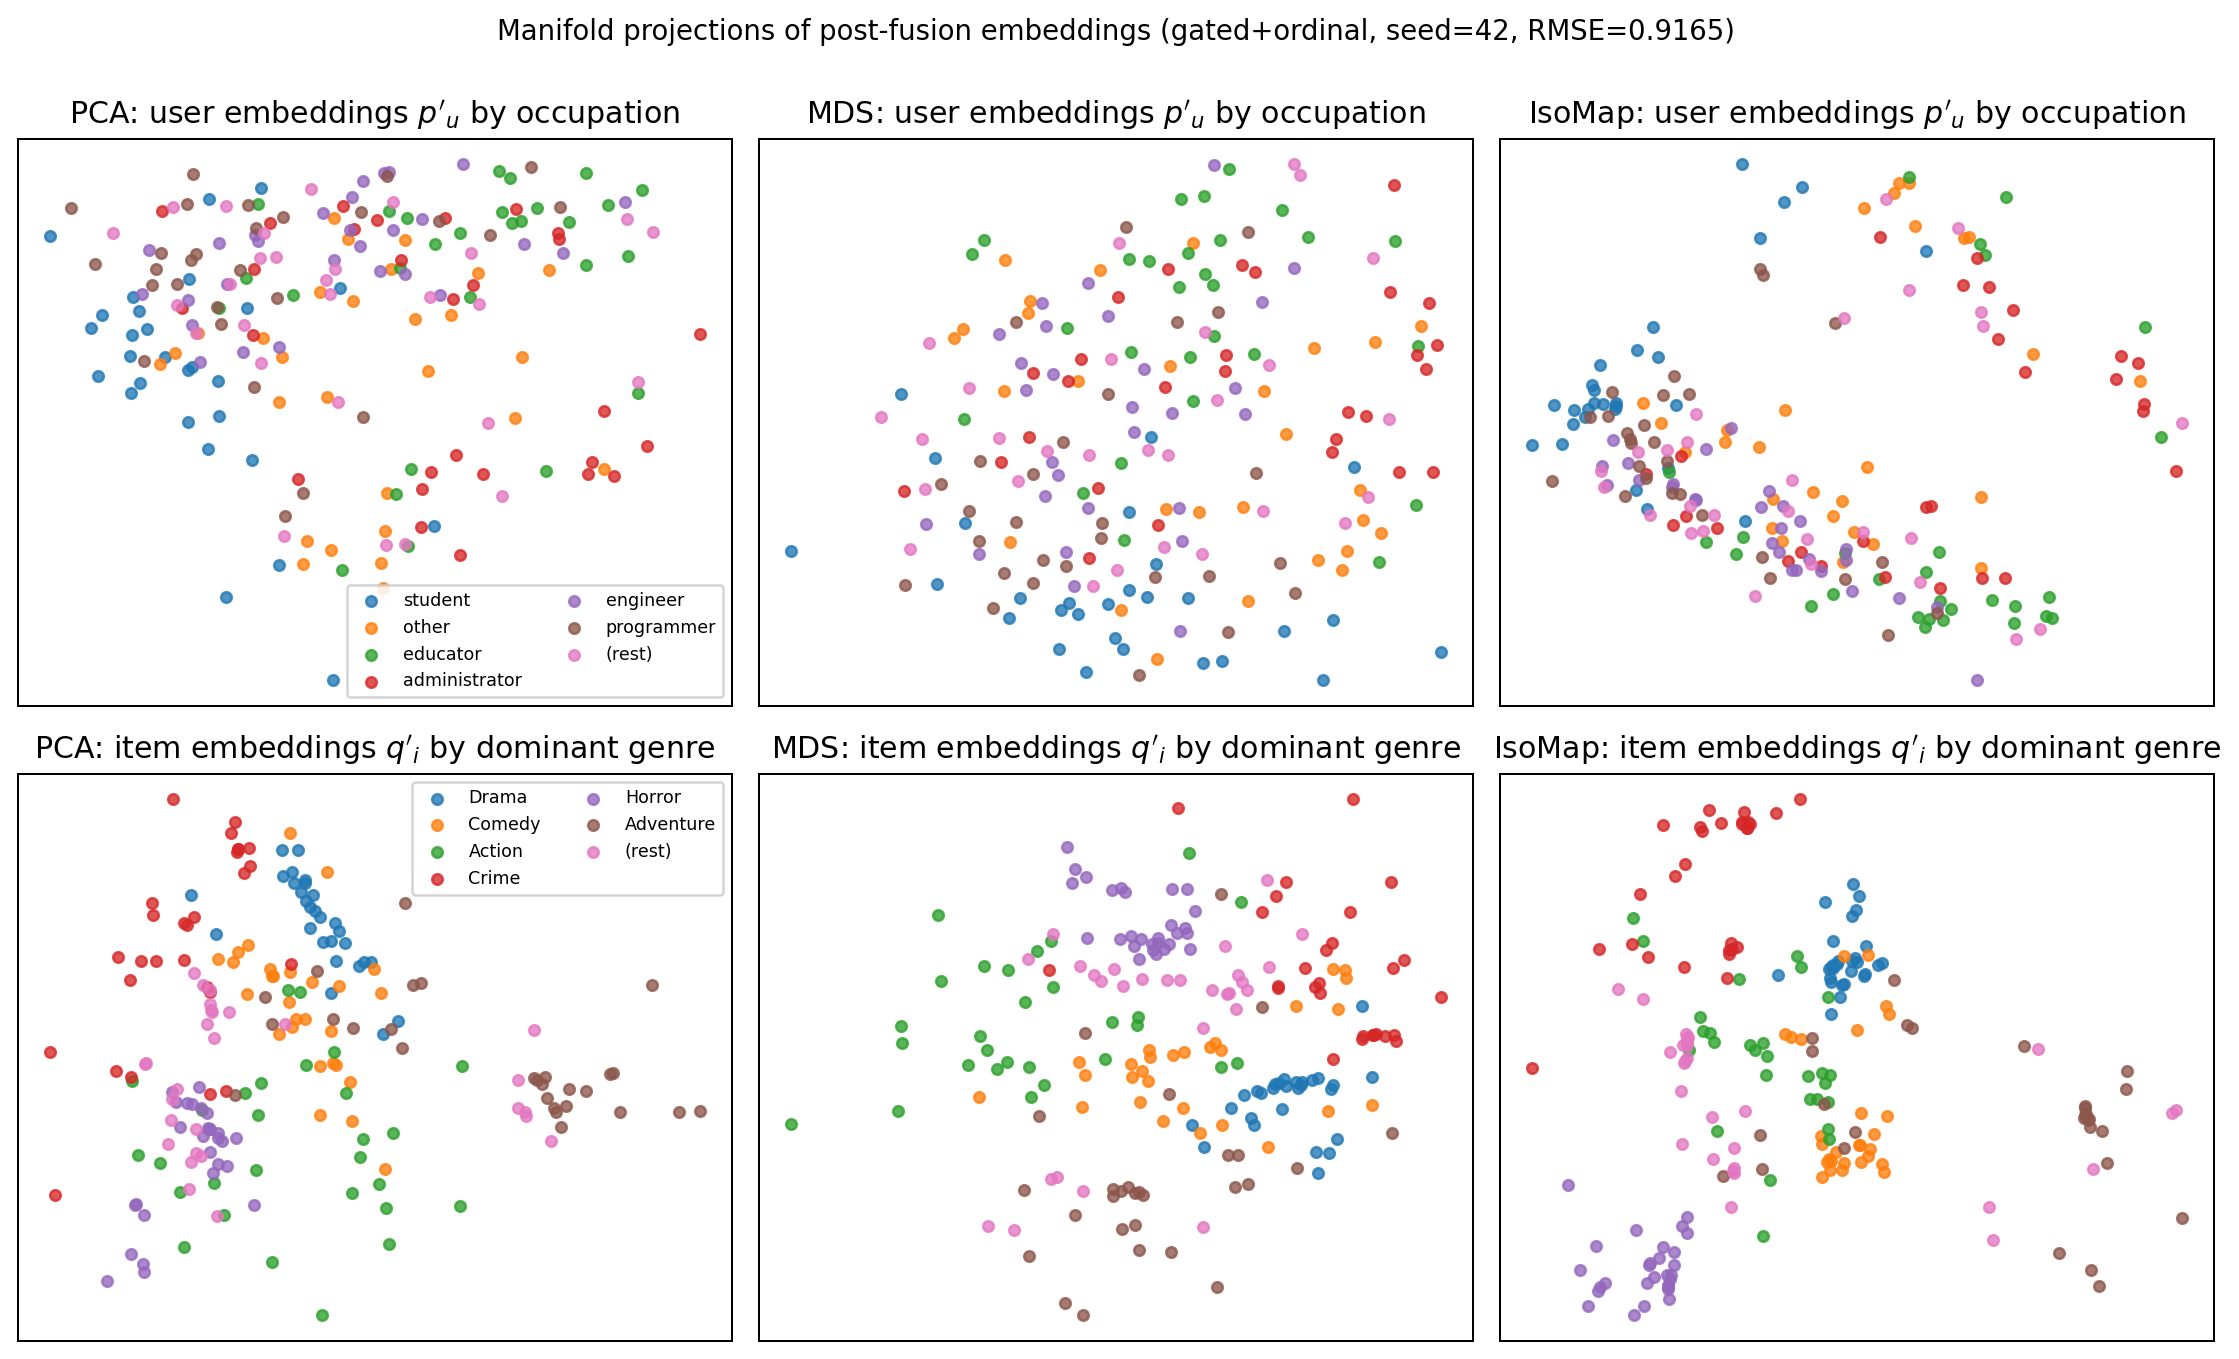
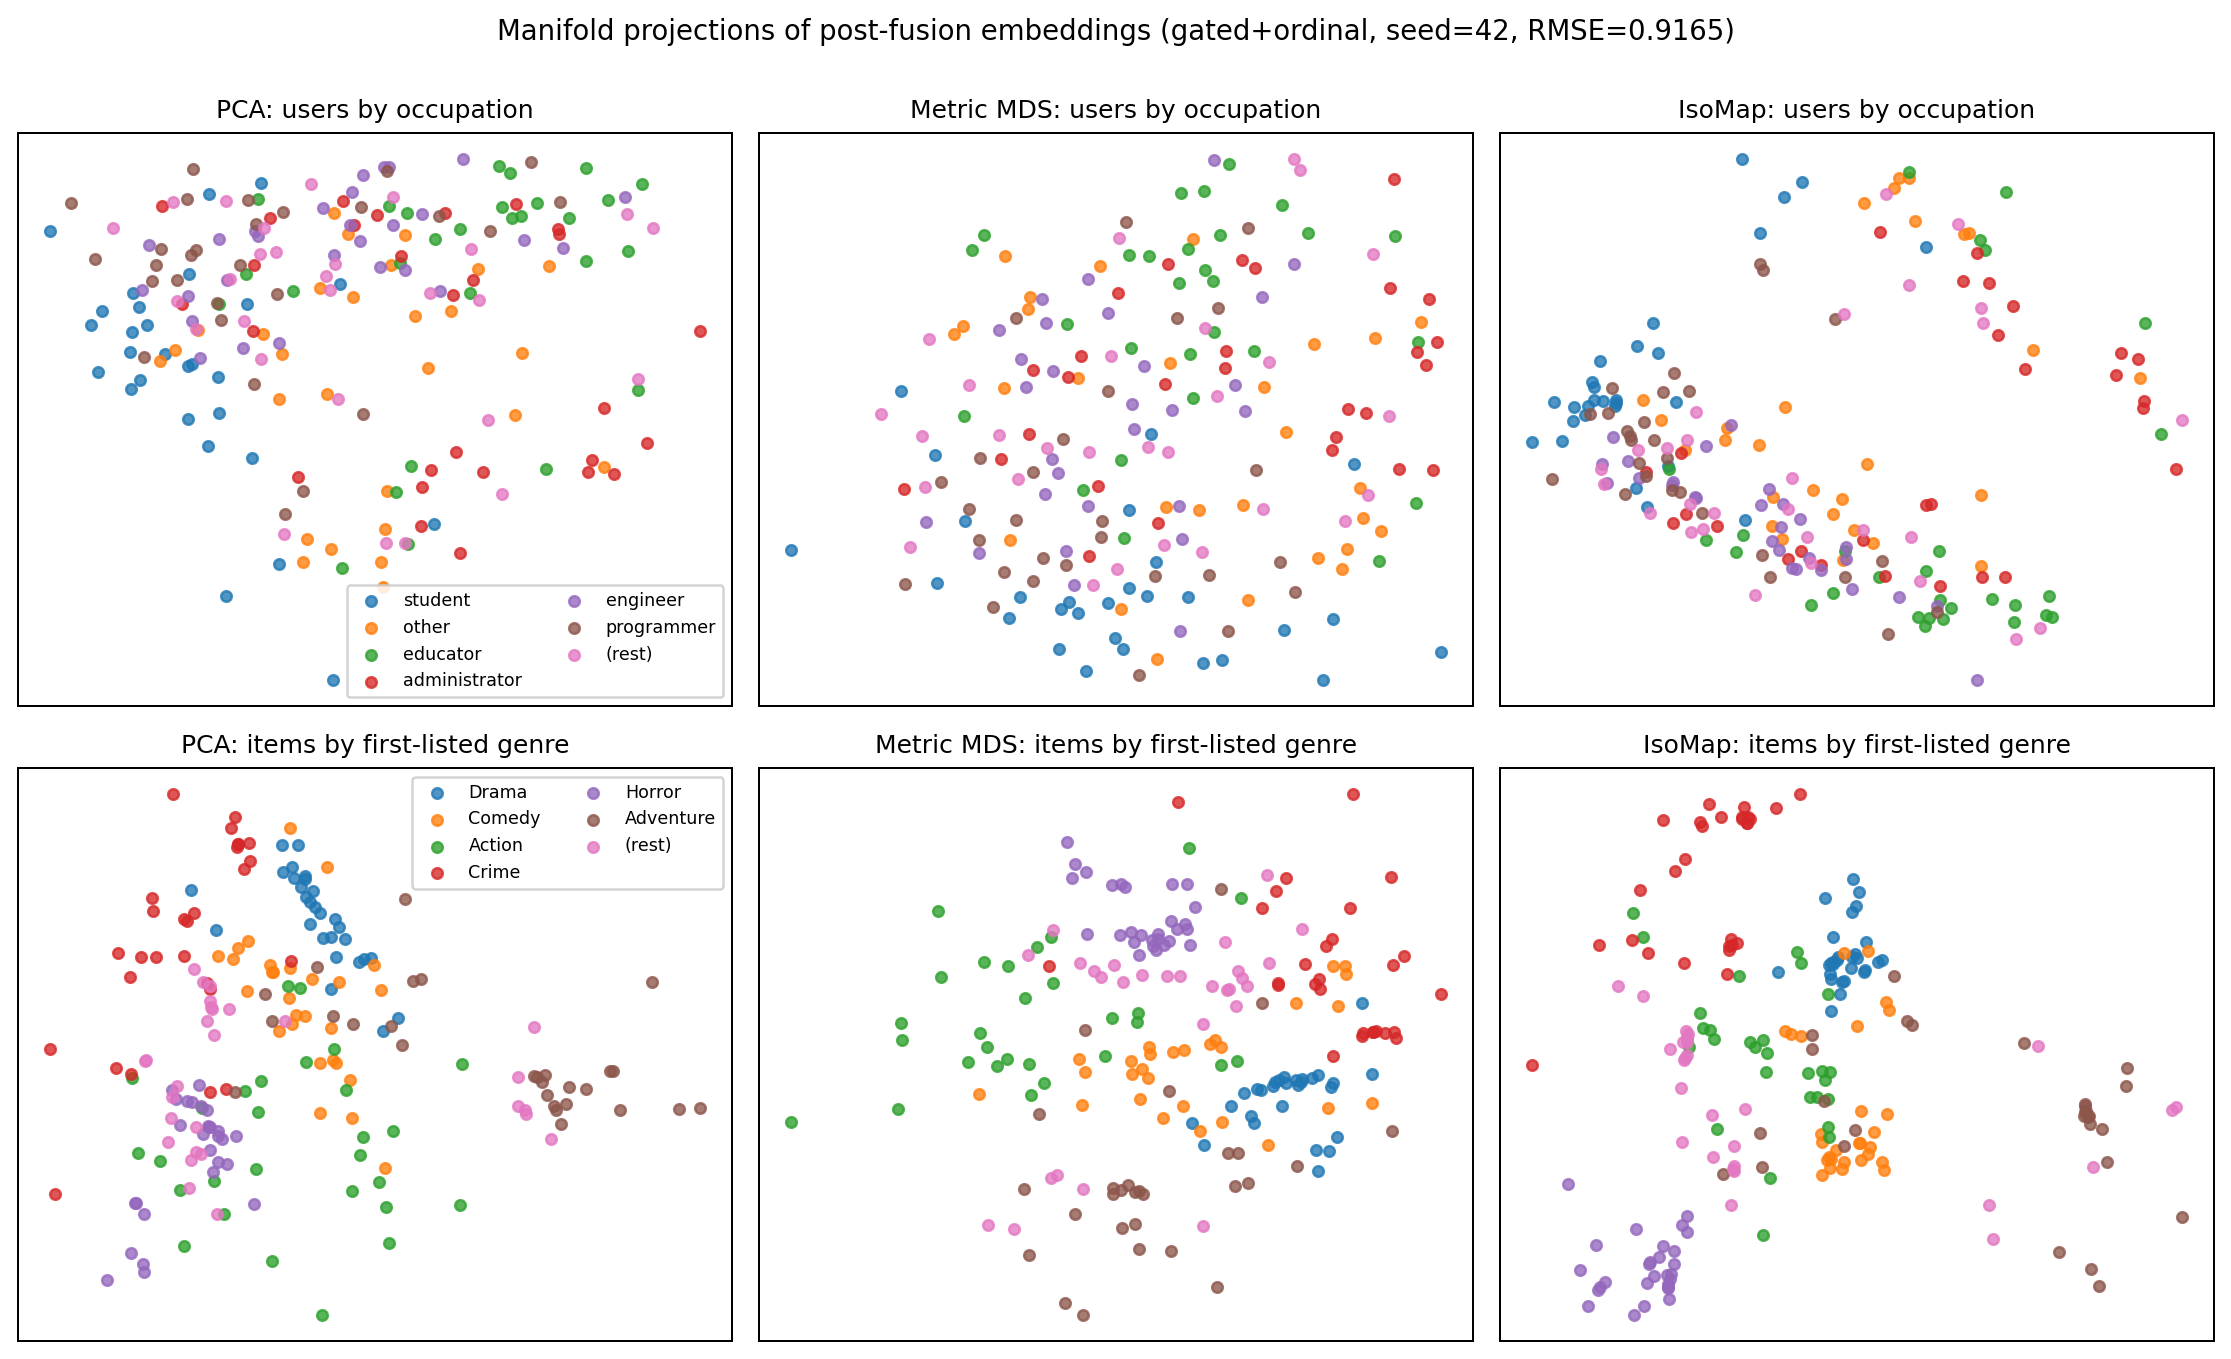
docs: fix figure wording and labels

diff --git a/scripts/run_visualization.py b/scripts/run_visualization.py
@@ -3,12 +3,12 @@
 Trains a single gated+ordinal model on u1.base, extracts post-fusion
 representations p'_u and q'_i (i.e. after passing through the gated fusion
 module, not the raw embeddings), projects them to 2D via three manifold methods,
-and reports silhouette scores stratified by occupation (users) and dominant
+and reports silhouette scores stratified by occupation (users) and first-listed
 genre (items).
 
 Outputs:
     results/<date>_viz/
-        manifold_grid.png       2x3 panel: rows = {users, items}, cols = {PCA, MDS, IsoMap}
+        manifold_grid.png       2x3 panel: rows = {users, items}, cols = {PCA, metric MDS, IsoMap}
         silhouette_scores.csv   per (entity, method) silhouette
         config_snapshot.yaml    config used
         results.json            metadata (seed, n_train_epochs, val_rmse, etc.)
@@ -61,17 +61,17 @@ def _load_user_occupations(data_dir: Path, n_users: int) -> tuple[np.ndarray, li
 
 
 def _load_item_genres(data_dir: Path, n_items: int) -> tuple[np.ndarray, list[str]]:
-    """Return per-item dominant genre as integer label."""
+    """Return per-item first-listed genre as integer label."""
     cols = ["item_id", "title", "release", "video_release", "imdb"] + GENRES
     df = pd.read_csv(data_dir / "u.item", sep="|", names=cols, encoding="latin-1")
     df = df.sort_values("item_id").reset_index(drop=True)
     genre_mat = df[GENRES].to_numpy(dtype=np.int64)
-    # Dominant genre = leftmost-set 1 in row; if all-zero, pick the first ("unknown").
-    dominant = np.argmax(genre_mat[:, 1:], axis=1) + 1  # skip "unknown" if anything else set
+    # First-listed genre = leftmost-set 1 in row; if all-zero, pick the first ("unknown").
+    first_listed = np.argmax(genre_mat[:, 1:], axis=1) + 1  # skip "unknown" if anything else set
     no_real_genre = genre_mat[:, 1:].sum(axis=1) == 0
-    dominant[no_real_genre] = 0  # "unknown"
+    first_listed[no_real_genre] = 0  # "unknown"
     labels = np.full(n_items, -1, dtype=np.int64)
-    labels[df["item_id"].to_numpy() - 1] = dominant
+    labels[df["item_id"].to_numpy() - 1] = first_listed
     return labels, GENRES
 
 
@@ -234,7 +234,7 @@ def main():
     cmap_u = plt.get_cmap("tab10")
     cmap_i = plt.get_cmap("tab10")
 
-    method_titles = {"pca": "PCA", "mds": "MDS", "isomap": "IsoMap"}
+    method_titles = {"pca": "PCA", "mds": "Metric MDS", "isomap": "IsoMap"}
     for col, m in enumerate(methods):
         Yp = user_proj[m]
         Yi = item_proj[m]
@@ -244,7 +244,7 @@ def main():
             if mask.sum() == 0: continue
             ax.scatter(Yp[mask, 0], Yp[mask, 1], s=18, alpha=0.78,
                        color=cmap_u(k), label=name)
-        ax.set_title(f"{method_titles[m]}: user embeddings $p'_u$ by occupation")
+        ax.set_title(f"{method_titles[m]}: users by occupation", fontsize=10)
         ax.set_xticks([]); ax.set_yticks([])
         if col == 0:
             ax.legend(fontsize=7, loc="best", ncol=2, framealpha=0.85)
@@ -255,7 +255,7 @@ def main():
             if mask.sum() == 0: continue
             ax.scatter(Yi[mask, 0], Yi[mask, 1], s=18, alpha=0.78,
                        color=cmap_i(k), label=name)
-        ax.set_title(f"{method_titles[m]}: item embeddings $q'_i$ by dominant genre")
+        ax.set_title(f"{method_titles[m]}: items by first-listed genre", fontsize=10)
         ax.set_xticks([]); ax.set_yticks([])
         if col == 0:
             ax.legend(fontsize=7, loc="best", ncol=2, framealpha=0.85)

diff --git a/paper/main.tex b/paper/main.tex
@@ -89,8 +89,8 @@ predicted marginal matches the data marginal at $s=0$ to numerical precision.
 embeddings with side-feature projections on both sides, zero-initialised so
 all dimensions start at the neutral $0.5$ mixture; the larger RMSE change in
 our ablation comes from this component.
-\item Supporting diagnostic. A manifold-projection lens (PCA, MDS, IsoMap) on
-post-fusion embeddings with silhouettes stratified by occupation and dominant
+\item Supporting diagnostic. A manifold-projection lens (PCA, metric MDS, IsoMap) on
+post-fusion embeddings with silhouettes stratified by occupation and first-listed
 genre; IsoMap recovers item-side genre structure that linear projections miss
 ($+0.23$ vs $+0.05$).
 \end{enumerate}
@@ -367,8 +367,8 @@ $\pm0.015$; macro-F1 lifts from $0.341$ to $0.369$, driven by recall on 1 and 5.
 This is the per-class footprint of the calibration claim.
 
 Figure~\ref{fig:sensitivity} sweeps the two main hyperparameters. The
-$d$-curve has sharp diminishing returns at $d=128$: $d=256$ improves RMSE by
-only $\Delta=0.0024$ at $+34\%$ wall time, comparable to seed-to-seed variance
+$d$-curve shows only small gains beyond $d=128$: $d=256$ improves RMSE by
+$\Delta=0.0024$ at $+34\%$ wall time, comparable to seed-to-seed variance
 at $d=128$ ($0.0029$). The $\lambda$-curve is a clean U with the chosen
 $\lambda=10^{-5}$ at the optimum ($10^{-6}$ underregularises by $+0.0018$,
 $10^{-4}$ overregularises by $+0.0080$). Defaults were chosen a priori.